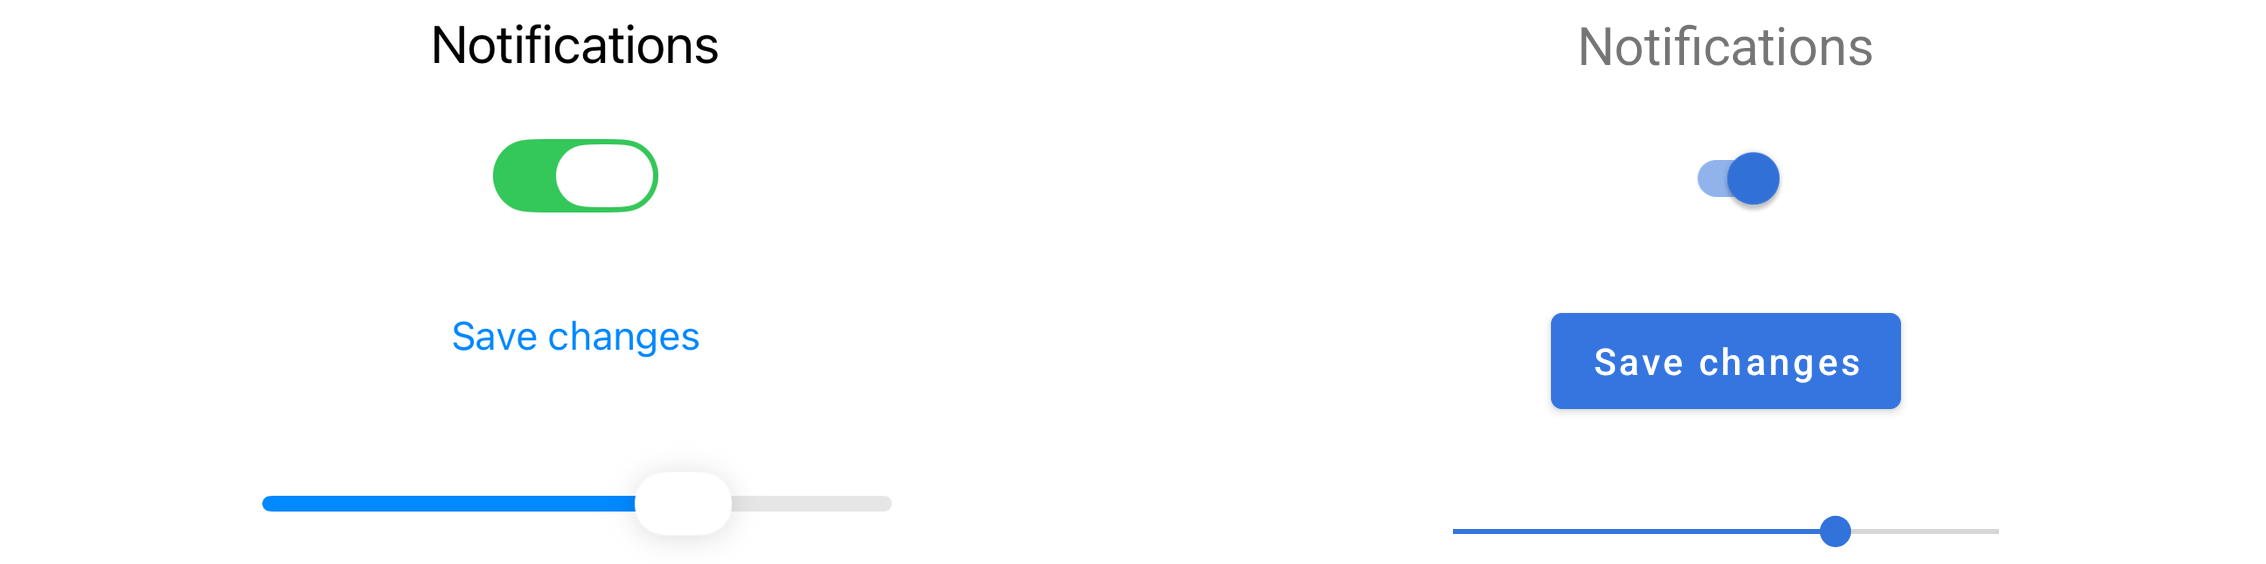
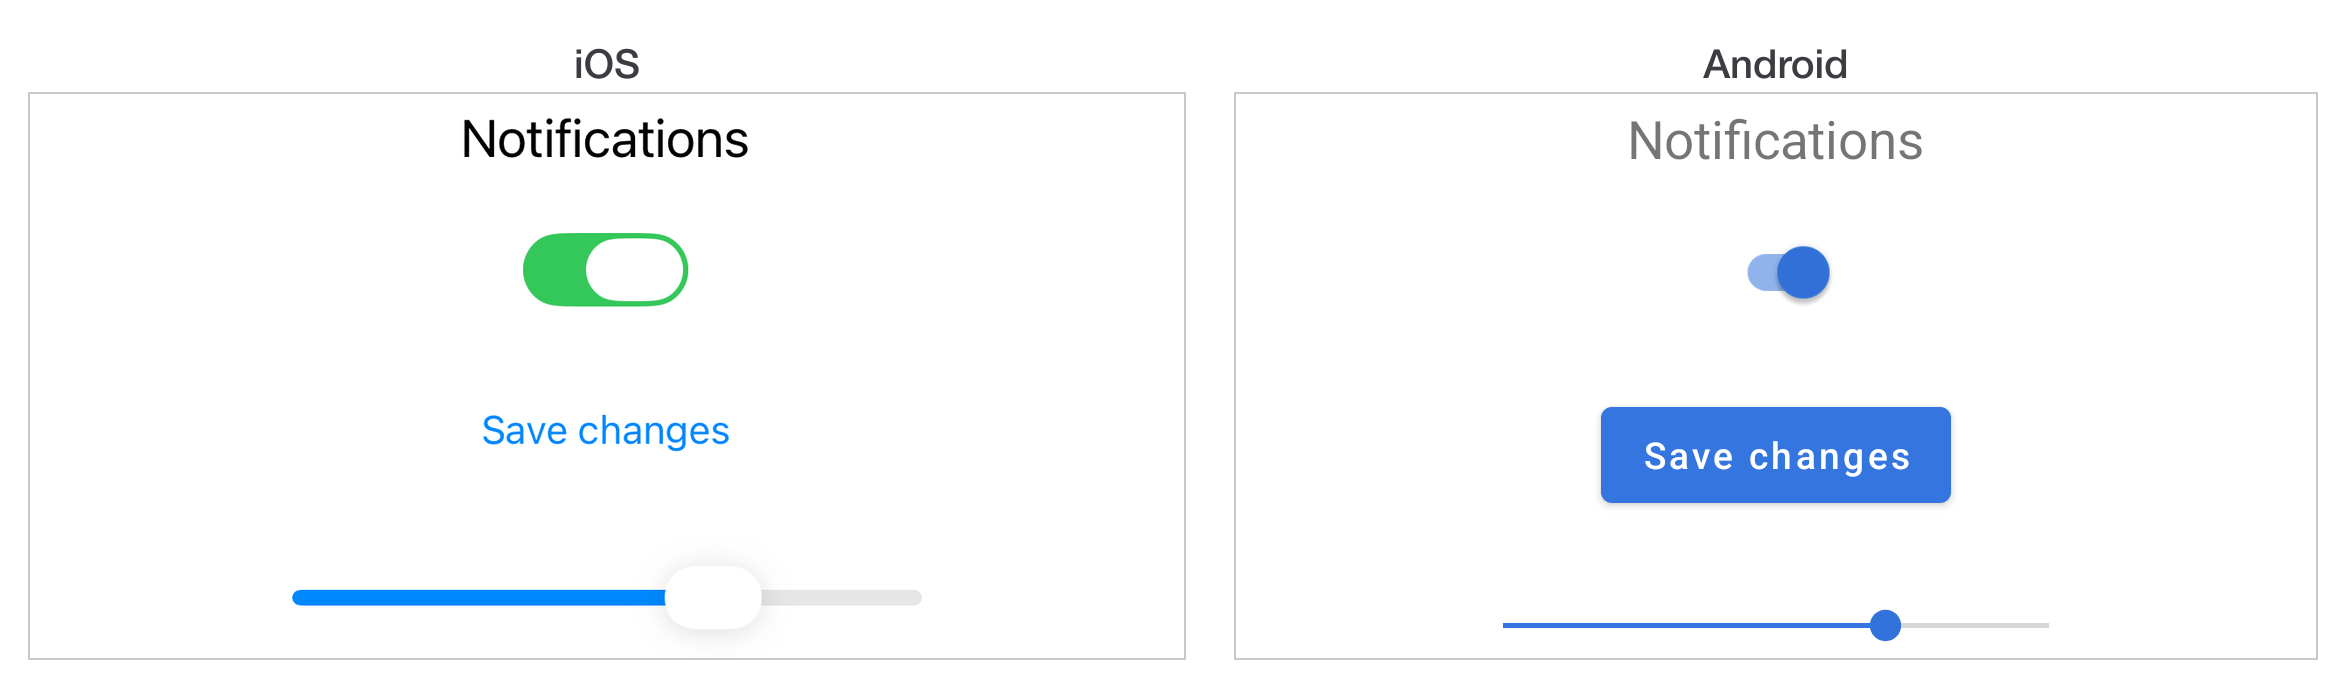
Label and box each half of a platform comparison
Two screenshots of mostly white UI set side by side bleed into one another:
nothing says where one screen stops and the other starts, or which platform is
which. Each half now carries its platform name above it and a hairline box
around it, and all four comparisons are recomposed.

Not phone bezels, which was the other option. Three of the four comparisons
are a band cropped out of a screen rather than a whole screen, and a frame
around a 290pt slice claims it is a whole phone, which is the opposite of what
the cropping convention is for. A bezel would also eat width in a 700px column
and Apple's device art carries usage terms.

Also adds --compose-only, which reframes from the halves already captured
rather than rebuilding eight apps to change a border, and fixes the canvas
height for stacked comparisons, which was short by one label and clipped the
bottom of the lower half.

diff --git a/scripts/capture-screenshots.ts b/scripts/capture-screenshots.ts
@@ -3,7 +3,7 @@ import { existsSync, mkdirSync, readFileSync, writeFileSync } from 'node:fs';
 import { homedir, tmpdir } from 'node:os';
 import { join } from 'node:path';
 import { fileURLToPath } from 'node:url';
-import sharp from 'sharp';
+import sharp, { type OverlayOptions } from 'sharp';
 
 /**
  * Builds a snippet into a throwaway app, runs it on a simulator or emulator,
@@ -154,6 +154,8 @@ interface Options {
   keep: boolean;
   /** Skip cropping and composing, to see what a new shot actually renders. */
   full: boolean;
+  /** Recompose from the halves already in PARTS_DIR, building nothing. */
+  composeOnly: boolean;
 }
 
 /** `adb` talks to the serial, `ti build` talks to the AVD name. */
@@ -189,6 +191,7 @@ function parseArgs(argv: string[]): Options {
     javaHome: get('--java-home'),
     keep: argv.includes('--keep'),
     full: argv.includes('--full'),
+    composeOnly: argv.includes('--compose-only'),
   };
 }
 
@@ -719,6 +722,19 @@ async function cropBand(file: string, shot: Shot, ready: Ready, platform: Platfo
   writeFileSync(file, buffer);
 }
 
+/** How a composed half is framed: label above, hairline box around. */
+const FRAME = {
+  pad: 28,
+  gutter: 48,
+  border: 2,
+  labelGap: 14,
+  borderColor: '#c7c7cc',
+  labelColor: '#3c3c43',
+  background: '#ffffff',
+};
+
+const PLATFORM_LABELS: Record<Platform, string> = { ios: 'iOS', android: 'Android' };
+
 /**
  * Stitches the halves of a comparison shot into one image.
  *
@@ -729,12 +745,18 @@ async function cropBand(file: string, shot: Shot, ready: Ready, platform: Platfo
  * what puts the two UIs at comparable scale rather than distorting them. The
  * smaller of the two wins, since downscaling the denser screenshot is kinder
  * than upscaling the other into blur.
+ *
+ * Each half is then labelled and boxed. Two screenshots of mostly white UI
+ * laid side by side bleed into each other: there is nothing to say where one
+ * screen stops and the other starts, or which platform is which. The box is a
+ * hairline rather than a phone bezel on purpose, because most of these are a
+ * band cropped out of a screen and a bezel would claim they are whole phones.
  */
 async function composeParts(
   parts: string[],
   out: string,
-  axis: 'row' | 'column' = 'row',
-  gutter = 32
+  axis: 'row' | 'column',
+  labels: string[]
 ): Promise<void> {
   const sizes = await Promise.all(parts.map((part) => sharp(part).metadata()));
   const row = axis === 'row';
@@ -754,19 +776,52 @@ async function composeParts(
     })
   );
 
-  let offset = 0;
-  const layers = scaled.map((piece) => {
-    const layer = { input: piece.buffer, left: row ? offset : 0, top: row ? 0 : offset };
-    offset += (row ? piece.width : piece.height) + gutter;
-    return layer;
+  const fontSize = Math.min(
+    48,
+    Math.max(20, Math.round(Math.max(...scaled.map((s) => s.width)) * 0.035))
+  );
+  const labelHeight = Math.round(fontSize * 1.25);
+  const cellTop = FRAME.pad + labelHeight + FRAME.labelGap;
+
+  const layers: OverlayOptions[] = [];
+  const boxes: string[] = [];
+  let offset = FRAME.pad;
+  let right = 0;
+  let bottom = 0;
+
+  scaled.forEach((piece, i) => {
+    const left = row ? offset : FRAME.pad;
+    const top = row ? cellTop : offset + labelHeight + FRAME.labelGap;
+    layers.push({ input: piece.buffer, left: left + FRAME.border, top: top + FRAME.border });
+
+    boxes.push(
+      `<rect x="${left + FRAME.border / 2}" y="${top + FRAME.border / 2}" ` +
+        `width="${piece.width + FRAME.border}" height="${piece.height + FRAME.border}" ` +
+        `fill="none" stroke="${FRAME.borderColor}" stroke-width="${FRAME.border}" shape-rendering="crispEdges"/>`,
+      `<text x="${left + (piece.width + FRAME.border * 2) / 2}" y="${top - FRAME.labelGap}" ` +
+        `font-family="Helvetica Neue, Helvetica, Arial, sans-serif" font-size="${fontSize}" ` +
+        `font-weight="600" fill="${FRAME.labelColor}" text-anchor="middle">${labels[i]}</text>`
+    );
+
+    // The canvas is sized from where things actually landed rather than from
+    // a running total, which is easy to get wrong by one label's height.
+    right = Math.max(right, left + piece.width + FRAME.border * 2);
+    bottom = Math.max(bottom, top + piece.height + FRAME.border * 2);
+
+    offset = row
+      ? left + piece.width + FRAME.border * 2 + FRAME.gutter
+      : top + piece.height + FRAME.border * 2 + FRAME.gutter;
   });
 
-  const span = offset - gutter;
-  const width = row ? span : common;
-  const height = row ? common : span;
+  const width = right + FRAME.pad;
+  const height = bottom + FRAME.pad;
 
-  await sharp({ create: { width, height, channels: 3, background: '#ffffff' } })
-    .composite(layers)
+  const svg = Buffer.from(
+    `<svg xmlns="http://www.w3.org/2000/svg" width="${width}" height="${height}">${boxes.join('')}</svg>`
+  );
+
+  await sharp({ create: { width, height, channels: 3, background: FRAME.background } })
+    .composite([...layers, { input: svg, left: 0, top: 0 }])
     .png({ palette: true })
     .toFile(out);
 }
@@ -841,7 +896,8 @@ async function main(): Promise<void> {
         continue;
       }
       const out = join(options.out, `${shot.id}${suffix}.png`);
-      await composeParts(parts, out, shot.composeAxis ?? 'row');
+      const labels = shot.compose.map((platform) => PLATFORM_LABELS[platform]);
+      await composeParts(parts, out, shot.composeAxis ?? 'row', labels);
       if (shot.maxWidth) await shrink(out, shot.maxWidth);
       written.push(out);
       console.log(`  ${out}`);

diff --git a/content/docs/build/ui/index.md b/content/docs/build/ui/index.md
@@ -12,7 +12,7 @@ What Titanium adds on top is one layout system, shared by both platforms, so a
 screen you describe once positions itself on either. That system is the first
 thing to learn and the thing most new Titanium code gets wrong.
 
-![The same screen on an iPhone and an Android emulator: a heading, a switch, a button and a slider in the same order at the same positions. Each control is drawn in its own platform's style, so the iOS switch is green and its button is plain blue text, while the Android switch is blue and its button is a filled rectangle.](/docs/guides/one-codebase.png)
+![Two boxed screenshots labelled iOS and Android, side by side, showing the same screen: a heading, a switch, a button and a slider in the same order at the same positions. Each control is drawn in its own platform's style, so the iOS switch is green and its button is plain blue text, while the Android switch is blue and its button is a filled rectangle.](/docs/guides/one-codebase.png)
 
 ## Start here
 

diff --git a/content/docs/build/ui/platform-conventions.md b/content/docs/build/ui/platform-conventions.md
@@ -164,7 +164,7 @@ In TSS and XML, a platform attribute does the same:
 Prefer those to a runtime check when the difference is layout rather than
 behaviour: the code for the other platform never ships.
 
-![The detail screen of the same app on both platforms, one above the other. On iOS a back chevron labelled Notes sits at the left of the navigation bar, with the title Shopping list centred. On Android a plain left arrow sits at the left of the action bar, with the title beside it rather than centred.](/docs/guides/back-affordance.png)
+![Two boxed screenshots labelled iOS and Android, one above the other, each showing the detail screen of the same app. On iOS a back chevron labelled Notes sits at the left of the navigation bar, with the title Shopping list centred. On Android a plain left arrow sits at the left of the action bar, with the title beside it rather than centred.](/docs/guides/back-affordance.png)
 
 ## Next
 

diff --git a/content/docs/build/first-app.md b/content/docs/build/first-app.md
@@ -138,7 +138,7 @@ The app opens on two tabs, each with a label. The build log ends with
 `Project built successfully`, and the app's console output continues in your
 terminal until you stop it with `Ctrl-C`.
 
-![The generated template app running on an iPhone and an Android emulator side by side. Both show a window labelled I am Window 1 with two tabs; on iOS the tab bar sits at the bottom of the screen, on Android the tabs sit under a title bar at the top.](/docs/guides/template-app.png)
+![Two boxed screenshots labelled iOS and Android, side by side, showing the generated template app. Both show a window labelled I am Window 1 with two tabs; on iOS the tab bar sits at the bottom of the screen, on Android the tabs sit under a title bar at the top.](/docs/guides/template-app.png)
 
 To compile without installing or launching, add `--build-only`. It is the fast
 way to check that a change compiles.

diff --git a/docs/writing-guides.md b/docs/writing-guides.md
@@ -461,6 +461,12 @@ Never in frame: signing identities, team names, keystore paths, tokens, or any
 console line carrying a password argument. See the
 `displayBuildCommandInConsole` warning on `/docs/setup/ide-integration`.
 
+**A comparison of two platforms is labelled and boxed.** Two screenshots of
+mostly white UI set side by side bleed into one another: nothing says where one
+screen stops, or which platform is which. Each half gets its platform name
+above it and a hairline box around it. Not a phone bezel: most of these are a
+band cropped out of a screen, and a bezel would claim they are whole phones.
+
 **Crop to the part that carries the point, not to the device.** A whole
 portrait screenshot cannot be used in the prose at any scale: `.prose-docs img`
 is `max-width: 100%` in a column of about 700px, so a 0.46:1 image is either

diff --git a/content/docs/build/ui/lists.md b/content/docs/build/ui/lists.md
@@ -132,7 +132,7 @@ thousand view hierarchies.
 
 The event is `click`, not `itemclick`.
 
-![The same five-item list on both platforms, side by side. On iOS the section header Modules is grey text on the window background above the first row. On Android it is white text on a filled grey bar spanning the width of the list.](/docs/guides/list-view.png)
+![Two boxed screenshots labelled iOS and Android, side by side, each showing the same five-item list. On iOS the section header Modules is grey text on the window background above the first row. On Android it is white text on a filled grey bar spanning the width of the list.](/docs/guides/list-view.png)
 
 ## Next
 
